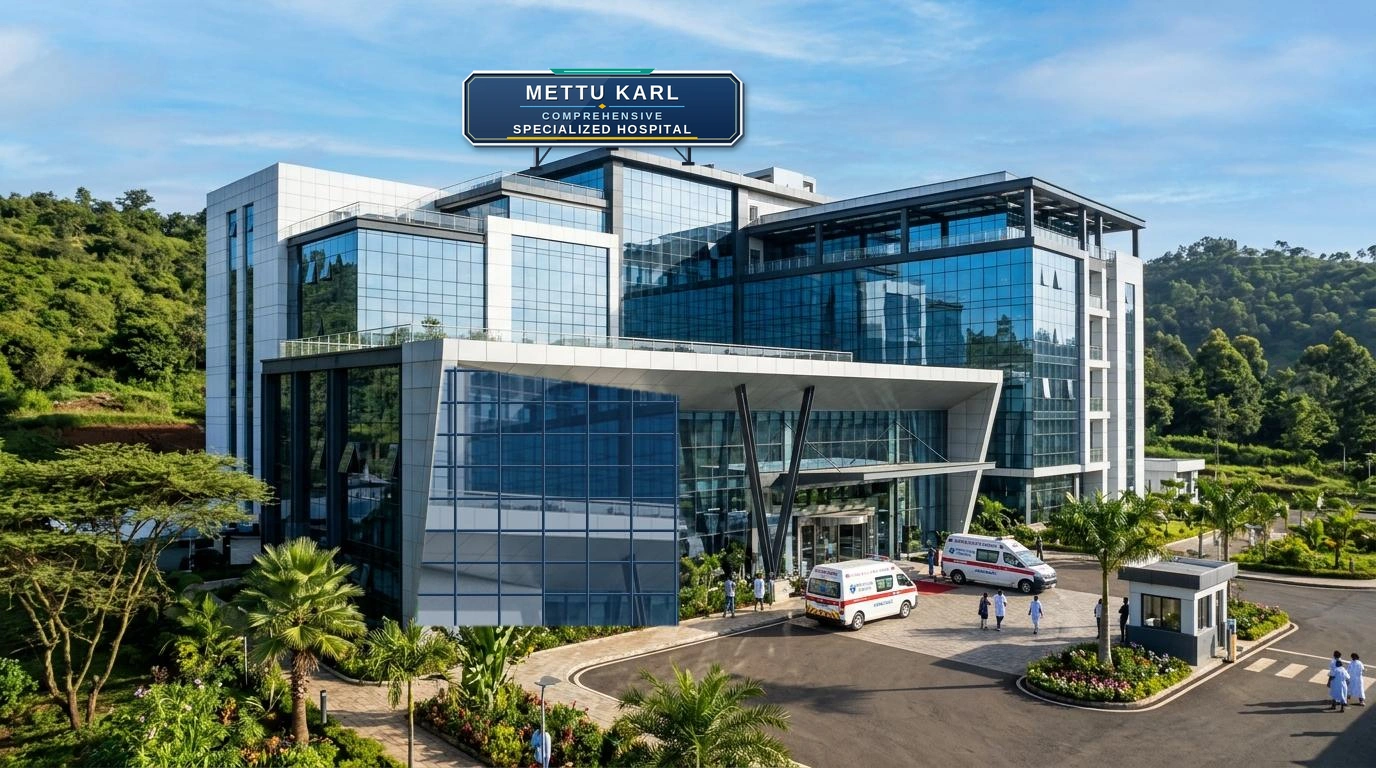
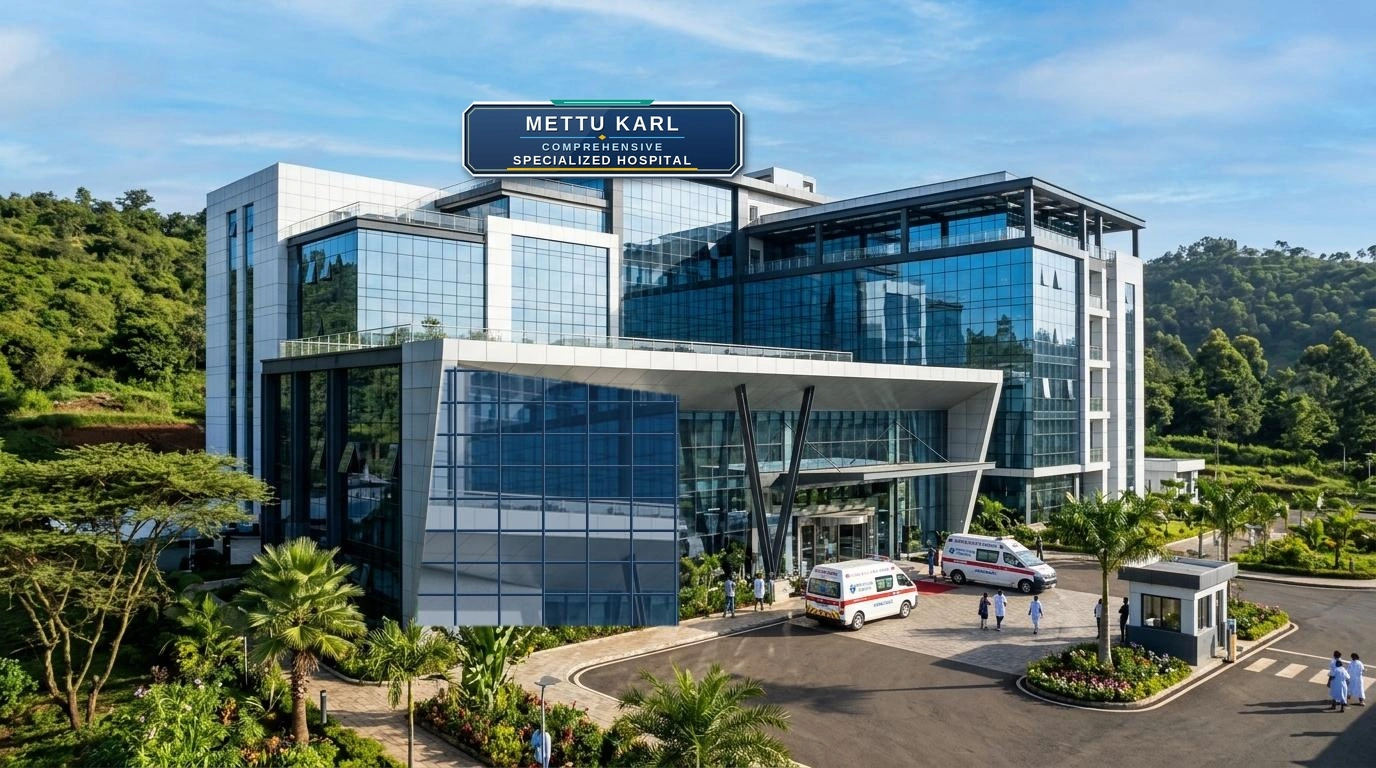
Seat hospital roofline Taappellaa signboard flush onto top parapet wall (v8)

Changed region(s): [[0.3125, 0.0625, 0.5625, 0.25]]

diff --git a/frontend/src/app/(auth)/login/page.tsx b/frontend/src/app/(auth)/login/page.tsx
@@ -791,9 +791,9 @@ export default function LoginPage() {
         <div className="absolute inset-0 w-full h-full z-0 overflow-hidden bg-slate-950 pointer-events-none">
           {/* Direct, reliable HTML image rendering with crisp-edges & zero blur */}
           <picture className="w-full h-full block">
-            <source srcSet="/hospital-building.webp?v=7" type="image/webp" />
+            <source srcSet="/hospital-building.webp?v=8" type="image/webp" />
             <img
-              src="/hospital-building.jpg?v=7"
+              src="/hospital-building.jpg?v=8"
               alt="Mettu Karl Comprehensive Specialized Hospital Building"
               loading="eager"
               decoding="sync"

diff --git a/frontend/src/app/globals.css b/frontend/src/app/globals.css
@@ -416,7 +416,7 @@ main {
 
 /* Hospital Building Hero Framing: Ultra-clear HD architectural display with crisp-edges */
 .hero-building-image {
-  background-image: url('/hospital-building.jpg?v=7');
+  background-image: url('/hospital-building.jpg?v=8');
   background-size: cover;
   background-repeat: no-repeat;
   background-position: center center;
